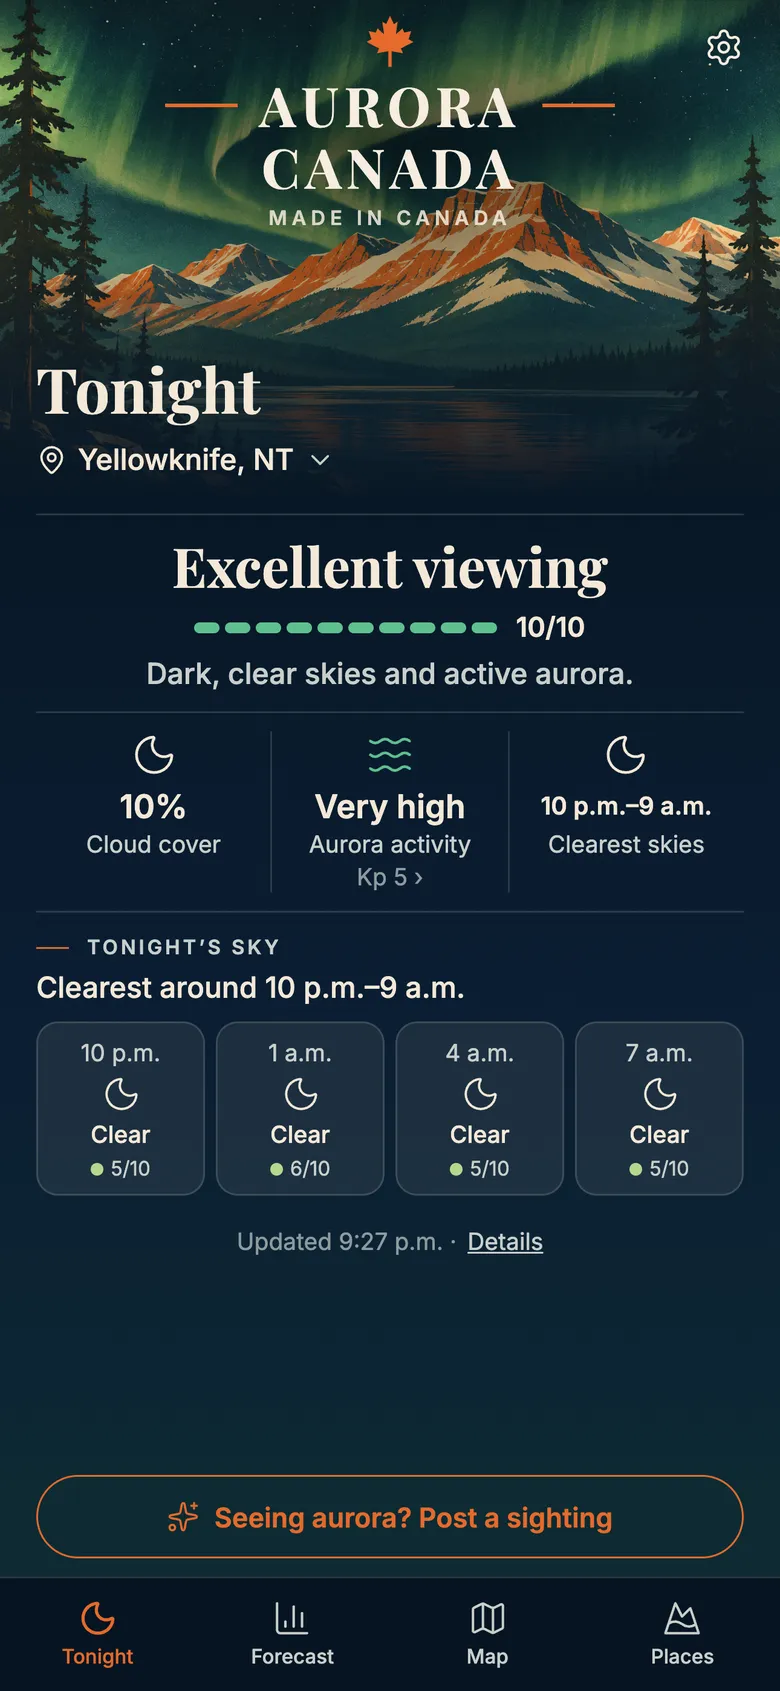
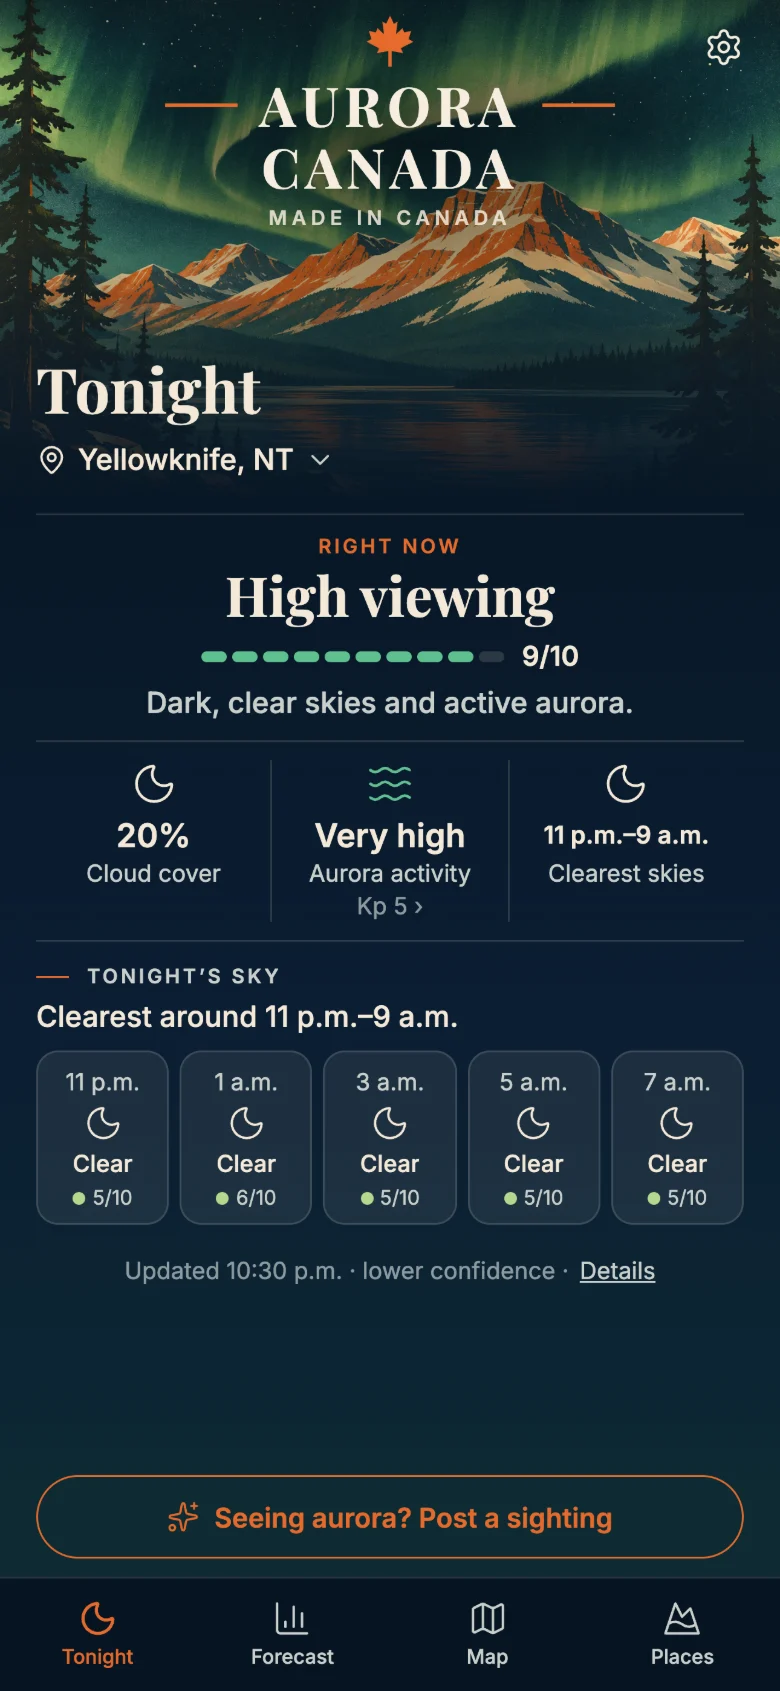
Publish website 2026-11-27

diff --git a/index.html b/index.html
@@ -84,7 +84,7 @@
       </div>
       <figure class="phone">
         <div class="phone-frame">
-          <img src="assets/app-tonight-example.webp" alt="The app’s Tonight screen for Yellowknife on a clear, dark night: Excellent viewing, 10 out of 10, with clear skies and very high aurora activity." width="780" height="1691" loading="lazy" decoding="async" />
+          <img src="assets/app-tonight-example.webp" alt="The app’s Tonight screen for Yellowknife on a clear, dark night: High viewing, 9 out of 10, with clear skies and very high aurora activity." width="780" height="1691" loading="lazy" decoding="async" />
         </div>
         <figcaption>Example of a clear night in Yellowknife. Not today’s conditions.</figcaption>
       </figure>

diff --git a/fr/index.html b/fr/index.html
@@ -84,7 +84,7 @@
       </div>
       <figure class="phone">
         <div class="phone-frame">
-          <img src="../assets/app-tonight-example.webp" alt="L’écran Ce soir de l’application pour Yellowknife par une nuit claire : excellentes conditions, 10 sur 10." width="780" height="1691" loading="lazy" decoding="async" />
+          <img src="../assets/app-tonight-example.webp" alt="L’écran Ce soir de l’application pour Yellowknife par une nuit claire : potentiel élevé, 9 sur 10." width="780" height="1691" loading="lazy" decoding="async" />
         </div>
         <figcaption>Exemple d’une nuit claire à Yellowknife (version anglaise). Pas les conditions d’aujourd’hui.</figcaption>
       </figure>

diff --git a/zh-tw/index.html b/zh-tw/index.html
@@ -84,7 +84,7 @@
       </div>
       <figure class="phone">
         <div class="phone-frame">
-          <img src="../assets/app-tonight-example.webp" alt="App 的「今晚」畫面（黃刀鎮）：晴朗的夜晚，觀賞條件極佳，10 分。" width="780" height="1691" loading="lazy" decoding="async" />
+          <img src="../assets/app-tonight-example.webp" alt="App 的「今晚」畫面（黃刀鎮）：晴朗的夜晚，觀賞潛力高，9 分。" width="780" height="1691" loading="lazy" decoding="async" />
         </div>
         <figcaption>黃刀鎮晴朗夜晚的範例畫面（英文版），並非今天的狀況。</figcaption>
       </figure>

diff --git a/styles.css b/styles.css
@@ -219,3 +219,6 @@ main a:not(.dest a), footer a { color: var(--accent); text-underline-offset: 3px
     background-position: center, right -20px center;
   }
 }
+/* App Store button (replaces the "Coming soon" pill once APP_STORE_URL is set). */
+a.status.store { background: var(--accent); border-color: var(--accent); color: #fff; text-decoration: none; }
+a.status.store:hover, a.status.store:focus-visible { filter: brightness(1.08); }
